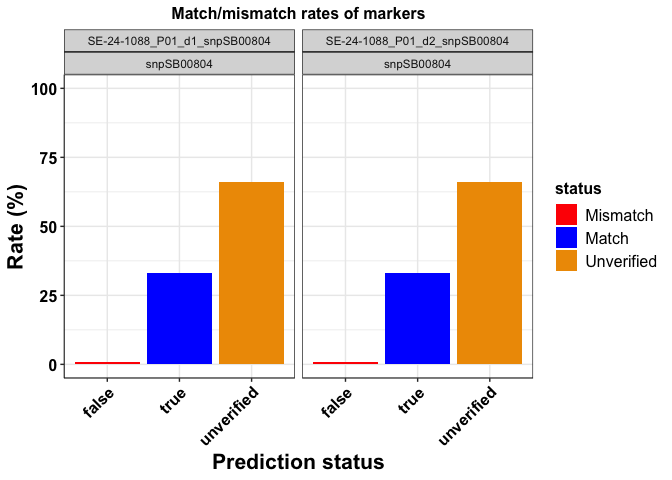
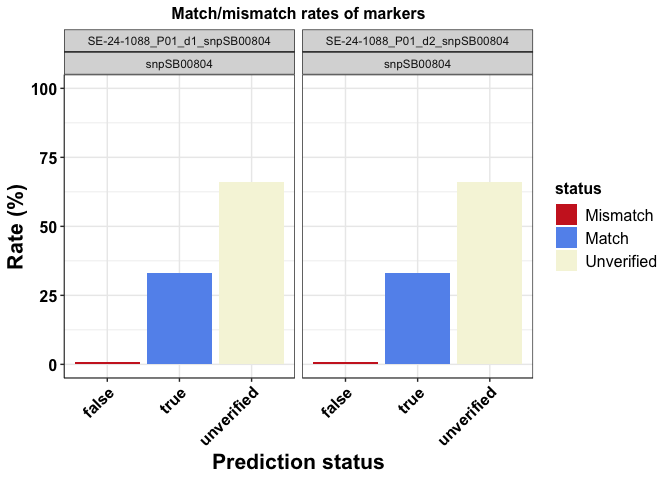
ReadMe updates

diff --git a/README.md b/README.md
@@ -539,7 +539,9 @@ dat1 <- kasp_color(x = kasp_dat,
                     geno_call = 'Call',
                     uncallable = 'Uncallable',
                     unused = '?',
-                    blank = 'NTC')
+                    blank = 'NTC',
+                   assign_cols = c(FAM = "blue", HEX = "gold" , 
+                                   het = "forestgreen"))
 ```
 
 The `kasp_color()` function requires the KASP genotype call file as a
@@ -604,8 +606,8 @@ library(panGenomeBreedr)
                   Group_id = 'Group',
                   Group_unknown = '?',
                   scale = TRUE,
-                  pred_cols = c('Blank' = 'black', 'False' = 'red',
-                                'True' = 'blue', 'Unverified' = 'yellow2'),
+                  pred_cols = c('Blank' = 'black', 'False' = 'firebrick3',
+                              'True' = 'cornflowerblue', 'Unverified' = 'beige'),
                   expand_axis = 0.6,
                   alpha = 0.9,
                   legend.pos.x = 0.6,
@@ -847,8 +849,8 @@ my_sum <- my_sum[my_sum$snp_id == 'snpSB00804',]
 
  pred_summary_plot(x = my_sum,
                     pdf = FALSE,
-                    pred_cols = c('false' = 'red', 'true' = 'blue',
-                                  'unverified' = 'orange2'),
+                    pred_cols = c('false' = 'firebrick3', 'true' = 'cornflowerblue',
+                                  'unverified' = 'beige'),
                     alpha = 1,
                     text_size = 12,
                     width = 6,
